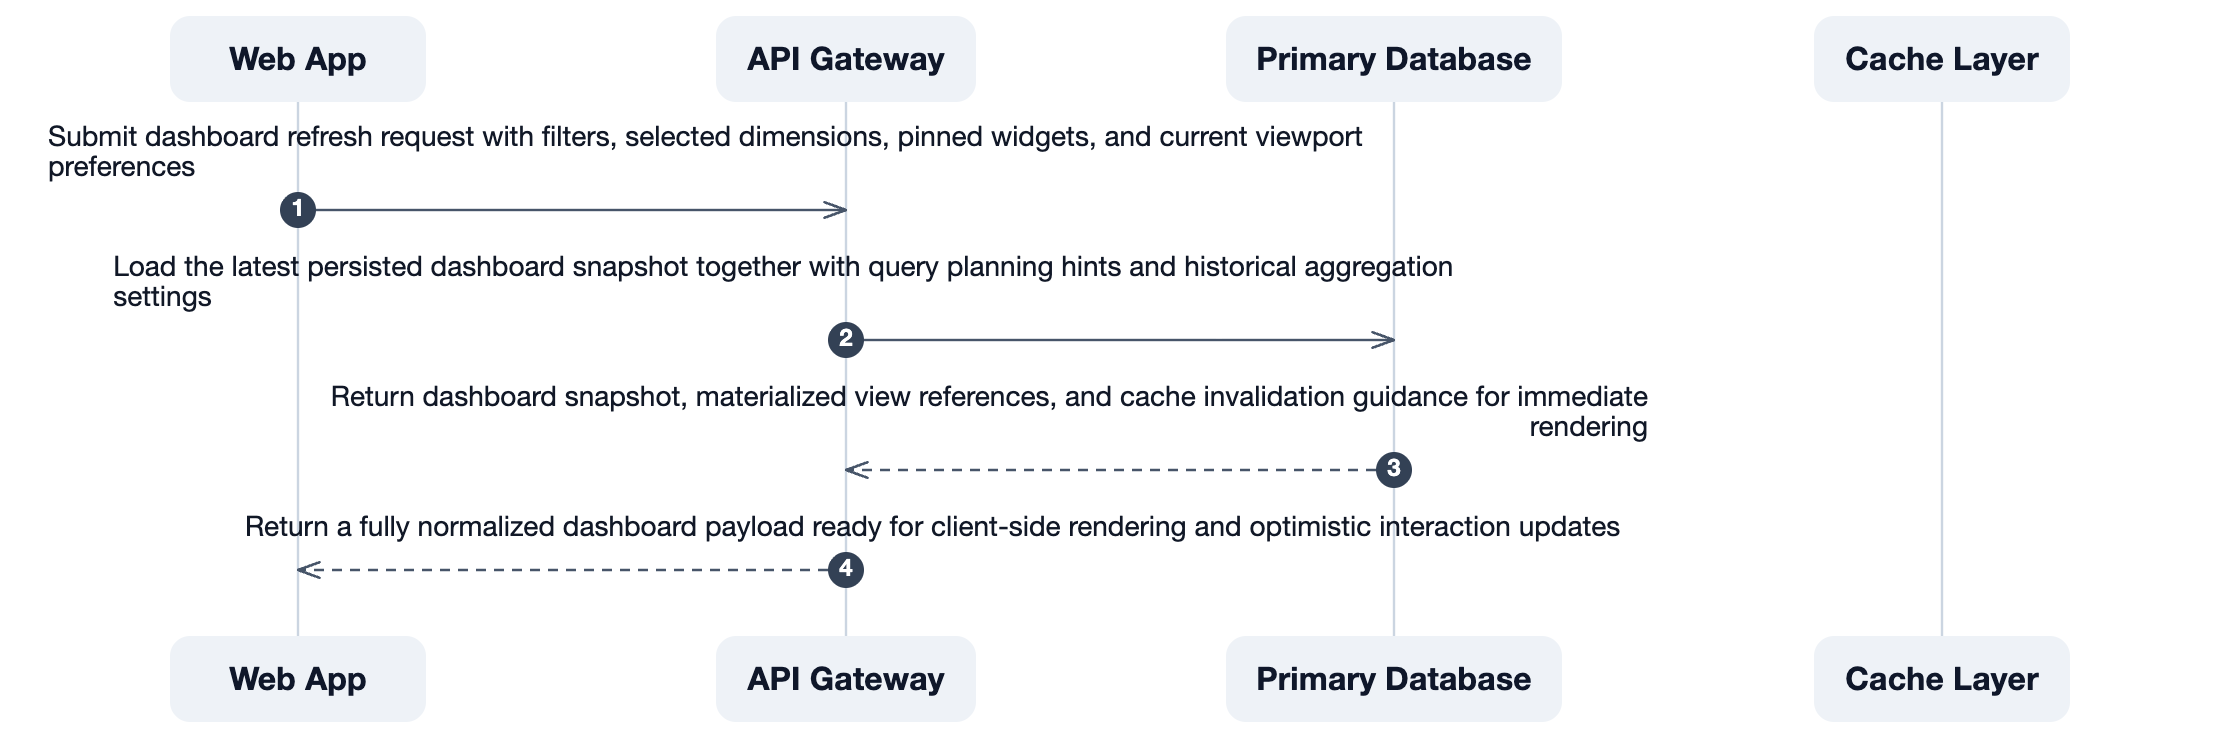
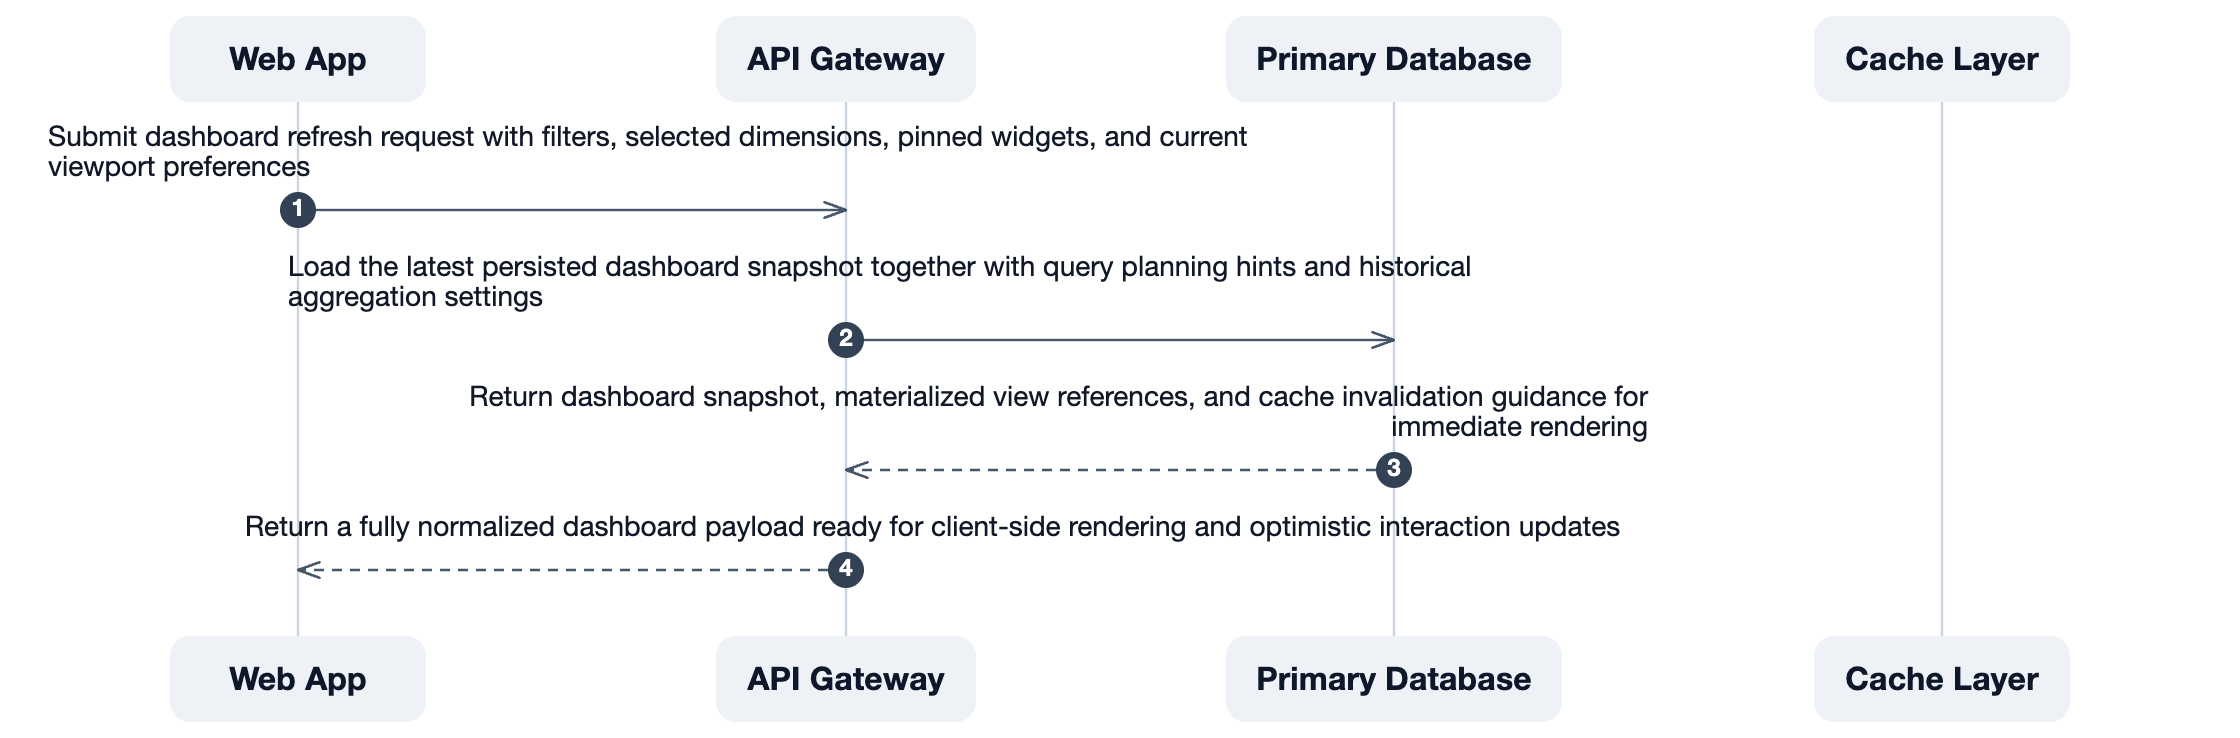
Avoid single-word wrap lines in sequence labels

diff --git a/src/sequence-renderer.js b/src/sequence-renderer.js
@@ -1225,7 +1225,7 @@ function wrapText(text, maxWidth, fontSize, maxLines) {
     lines[lines.length - 1] = `${lines.at(-1)} ${overflow}`.trim();
   }
 
-  return lines;
+  return rebalanceSingleWordLines(lines, maxWidth, fontSize);
 }
 
 function rebalanceWrappedLines(lines, maxWidth, fontSize) {
@@ -1250,6 +1250,53 @@ function rebalanceWrappedLines(lines, maxWidth, fontSize) {
     rebalanced.push(current);
   }
   return rebalanced;
+}
+
+function rebalanceSingleWordLines(lines, maxWidth, fontSize) {
+  let wordLines = lines.map((line) => line.split(/\s+/).filter(Boolean));
+
+  for (let index = 1; index < wordLines.length; index += 1) {
+    if (wordLines[index].length !== 1) {
+      continue;
+    }
+
+    wordLines = pushWordForward(wordLines, index, maxWidth, fontSize);
+  }
+
+  return wordLines.map((words) => words.join(" "));
+}
+
+function pushWordForward(wordLines, targetIndex, maxWidth, fontSize) {
+  for (let donorIndex = targetIndex - 1; donorIndex >= 0; donorIndex -= 1) {
+    if (wordLines[donorIndex].length <= 2) {
+      continue;
+    }
+
+    const candidate = wordLines.map((words) => [...words]);
+    let canRebalance = true;
+
+    for (let index = donorIndex + 1; index <= targetIndex; index += 1) {
+      const previousLine = candidate[index - 1];
+      if (previousLine.length <= 2) {
+        canRebalance = false;
+        break;
+      }
+
+      const shiftedWord = previousLine.pop();
+      candidate[index].unshift(shiftedWord);
+
+      if (measureTextWidth(candidate[index].join(" "), fontSize) > maxWidth) {
+        canRebalance = false;
+        break;
+      }
+    }
+
+    if (canRebalance) {
+      return candidate;
+    }
+  }
+
+  return wordLines;
 }
 
 function measureTextWidth(text, fontSize) {
